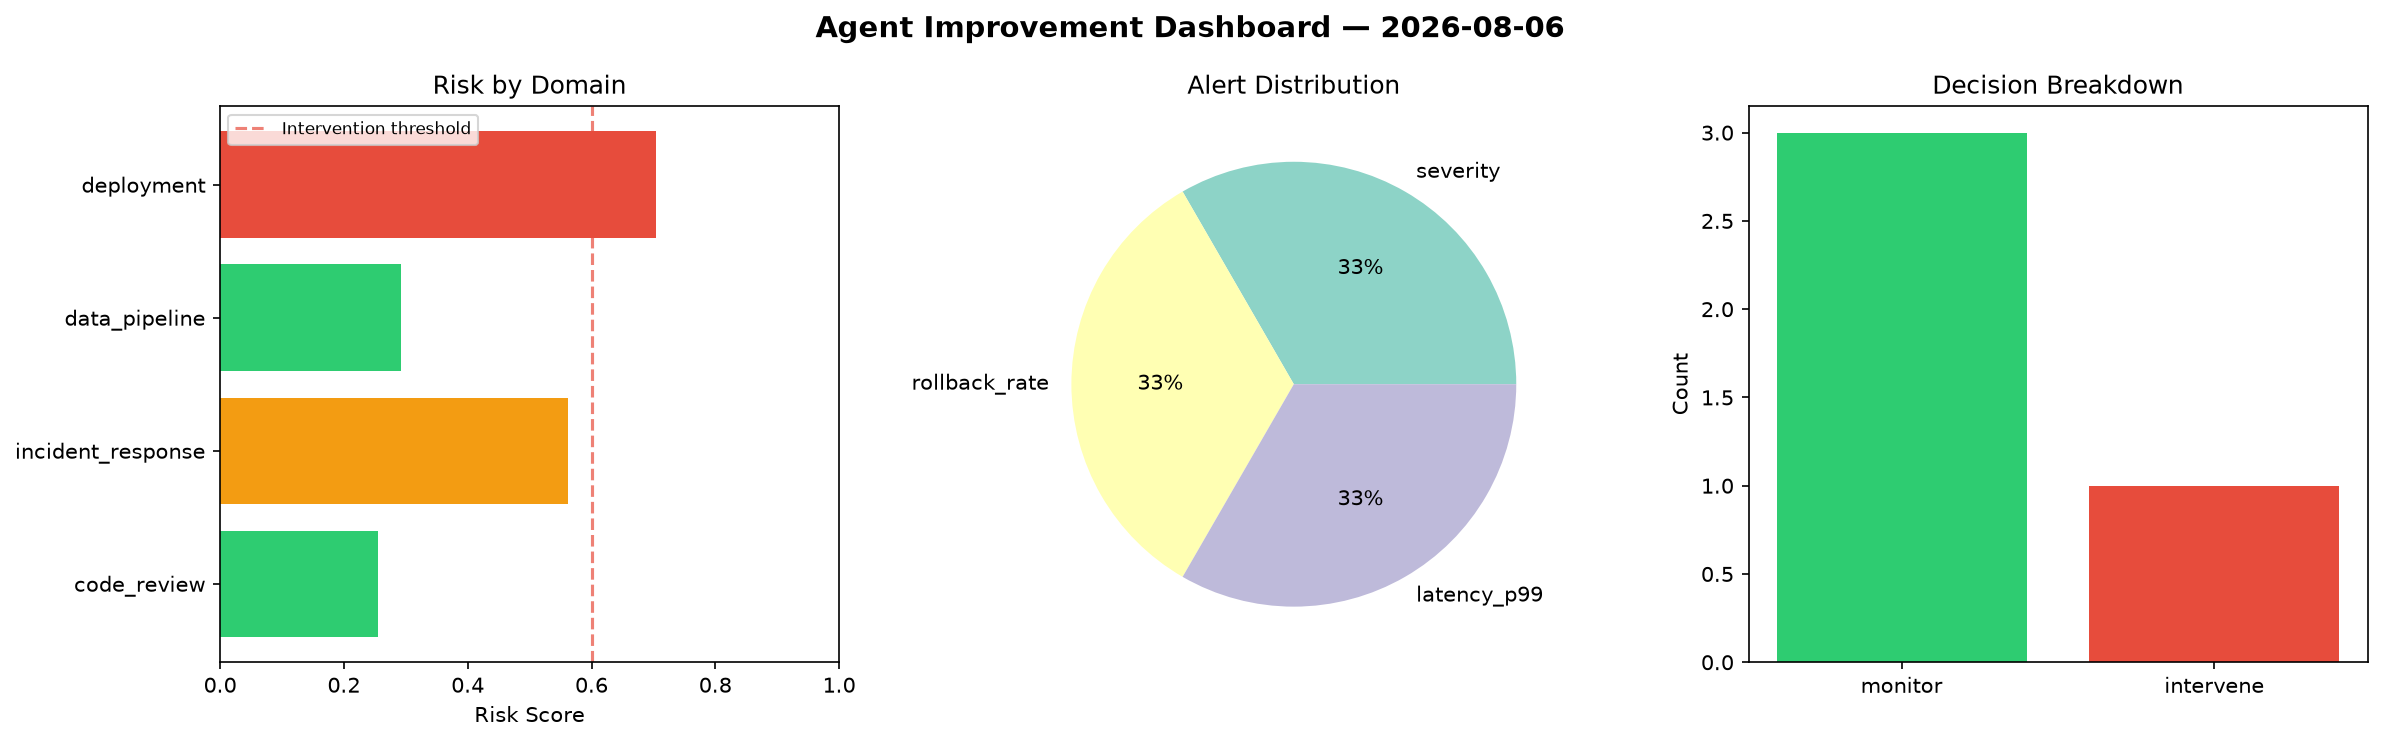
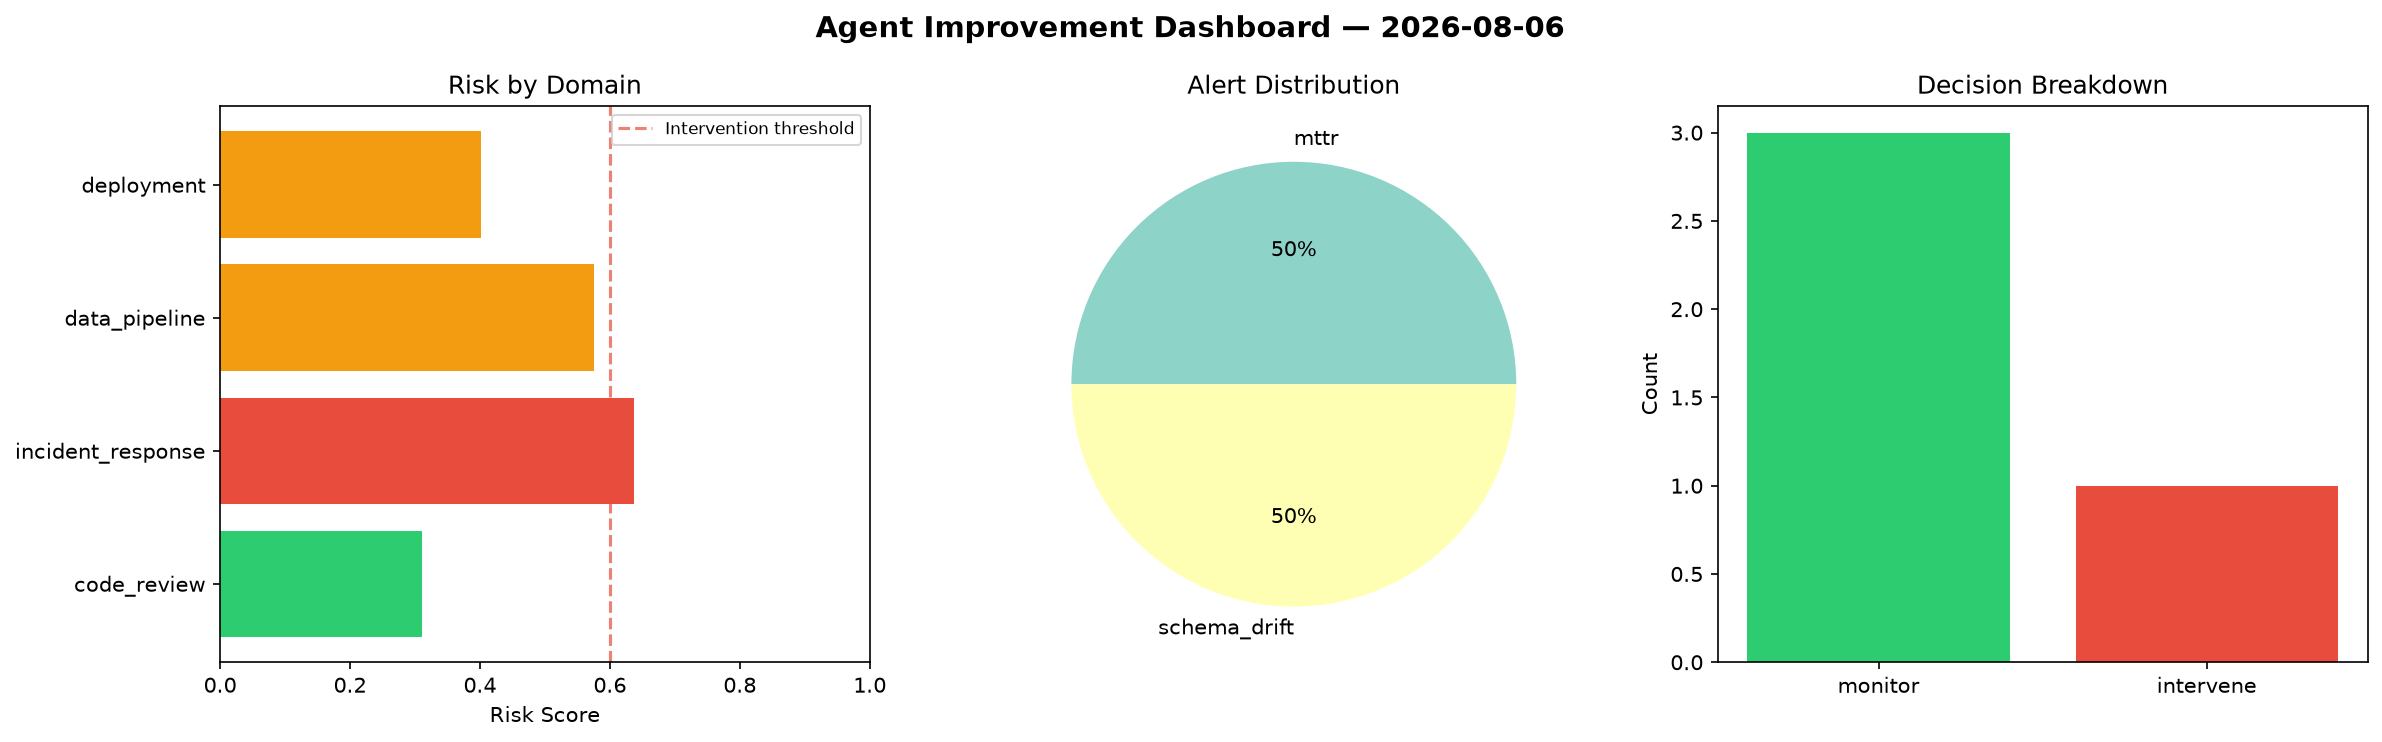
agent-improvement: daily cycle 2026-08-06T10:48

diff --git a/logs/2026-08-06.md b/logs/2026-08-06.md
@@ -1,6 +1,6 @@
 # Agent Improvement Report — 2026-08-06
 
-**Cycle ID:** `9f2e06e4` | **Avg Risk:** 0.4534 | **Interventions:** 1/4
+**Cycle ID:** `0cefeb32` | **Avg Risk:** 0.4811 | **Interventions:** 1/4
 
 ![Dashboard](2026-08-06_dashboard.png)
 
@@ -10,18 +10,18 @@
 
 | Domain | Risk Score | Decision | Alerts |
 |--------|-----------|----------|--------|
-| code_review | 0.2551 | monitor | none |
-| incident_response | 0.5622 | monitor | severity |
-| data_pipeline | 0.2925 | monitor | none |
-| deployment | 0.7037 | intervene | rollback_rate, latency_p99 |
+| code_review | 0.3114 | monitor | none |
+| incident_response | 0.6364 | intervene | mttr |
+| data_pipeline | 0.5749 | monitor | schema_drift |
+| deployment | 0.4017 | monitor | none |
 
 ## Delta vs Yesterday
 
 | Domain | Today | Yesterday | Change |
 |--------|-------|-----------|--------|
-| code_review | 0.2551 | 0.3914 | 📉 -34.8% |
-| incident_response | 0.5622 | 0.7612 | 📉 -26.1% |
-| data_pipeline | 0.2925 | 0.7381 | 📉 -60.4% |
-| deployment | 0.7037 | 0.5859 | 📈 20.1% |
+| code_review | 0.3114 | 0.3914 | 📉 -20.4% |
+| incident_response | 0.6364 | 0.7612 | 📉 -16.4% |
+| data_pipeline | 0.5749 | 0.7381 | 📉 -22.1% |
+| deployment | 0.4017 | 0.5859 | 📉 -31.4% |
 
 **Refinement:** `{'adjustment': 'tighten_thresholds', 'trend': 'degrading', 'window': 4}`
